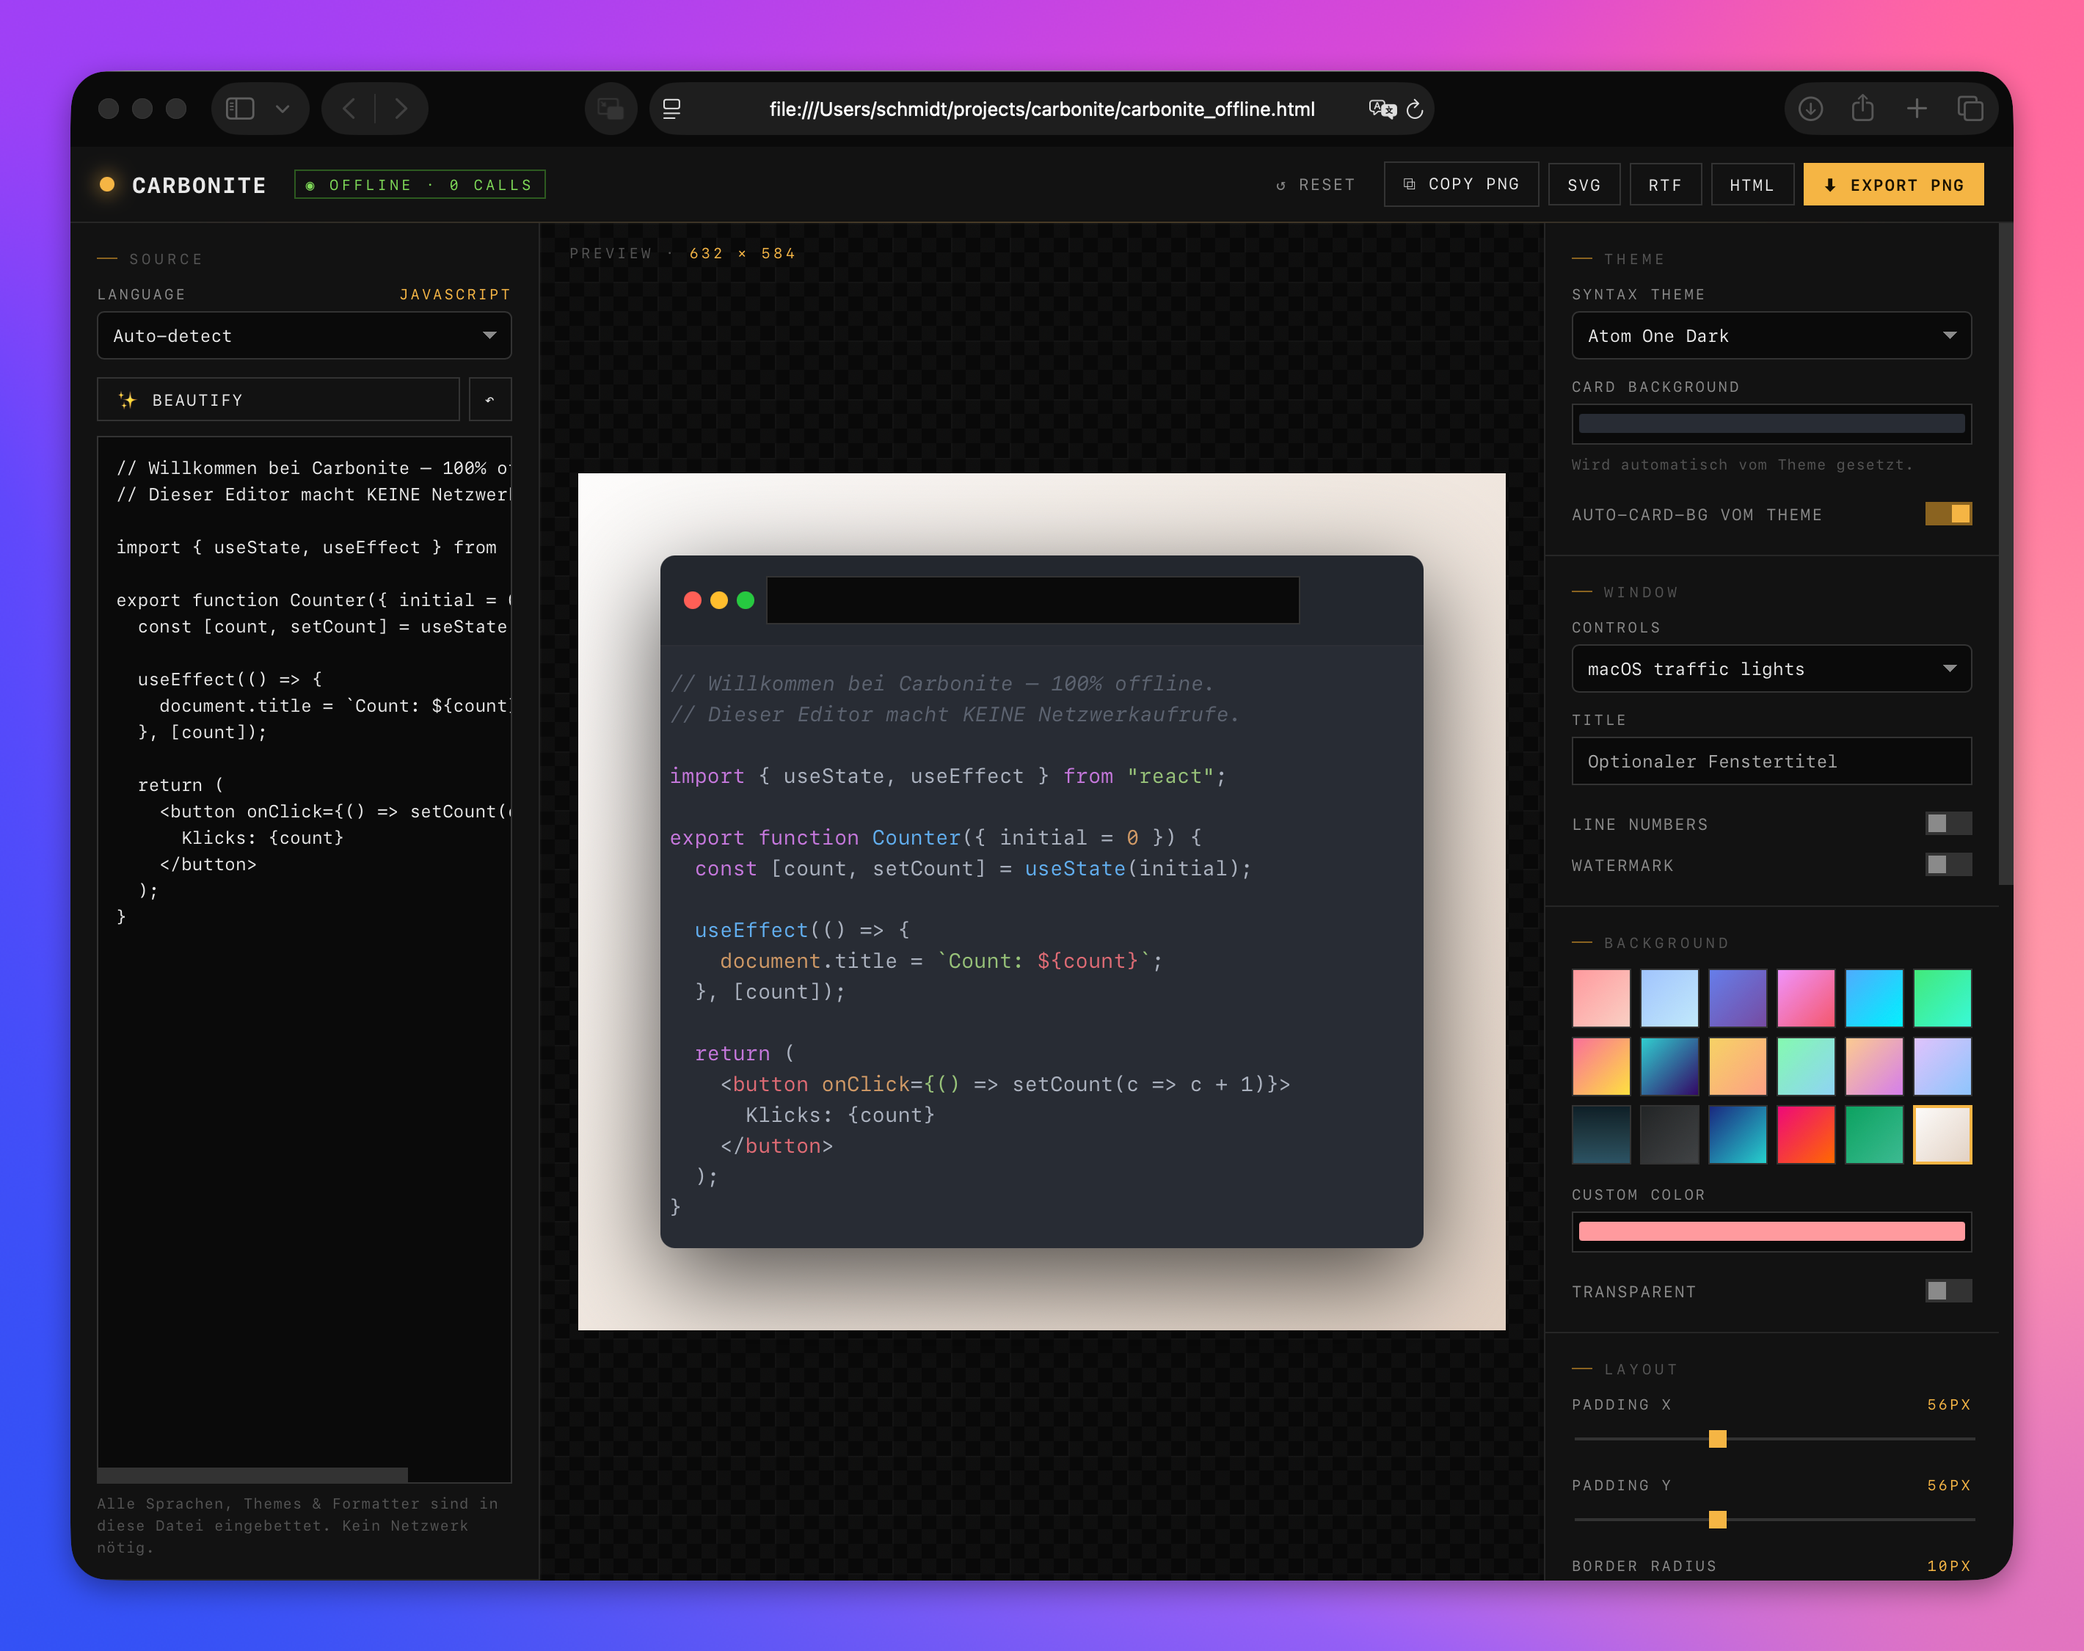
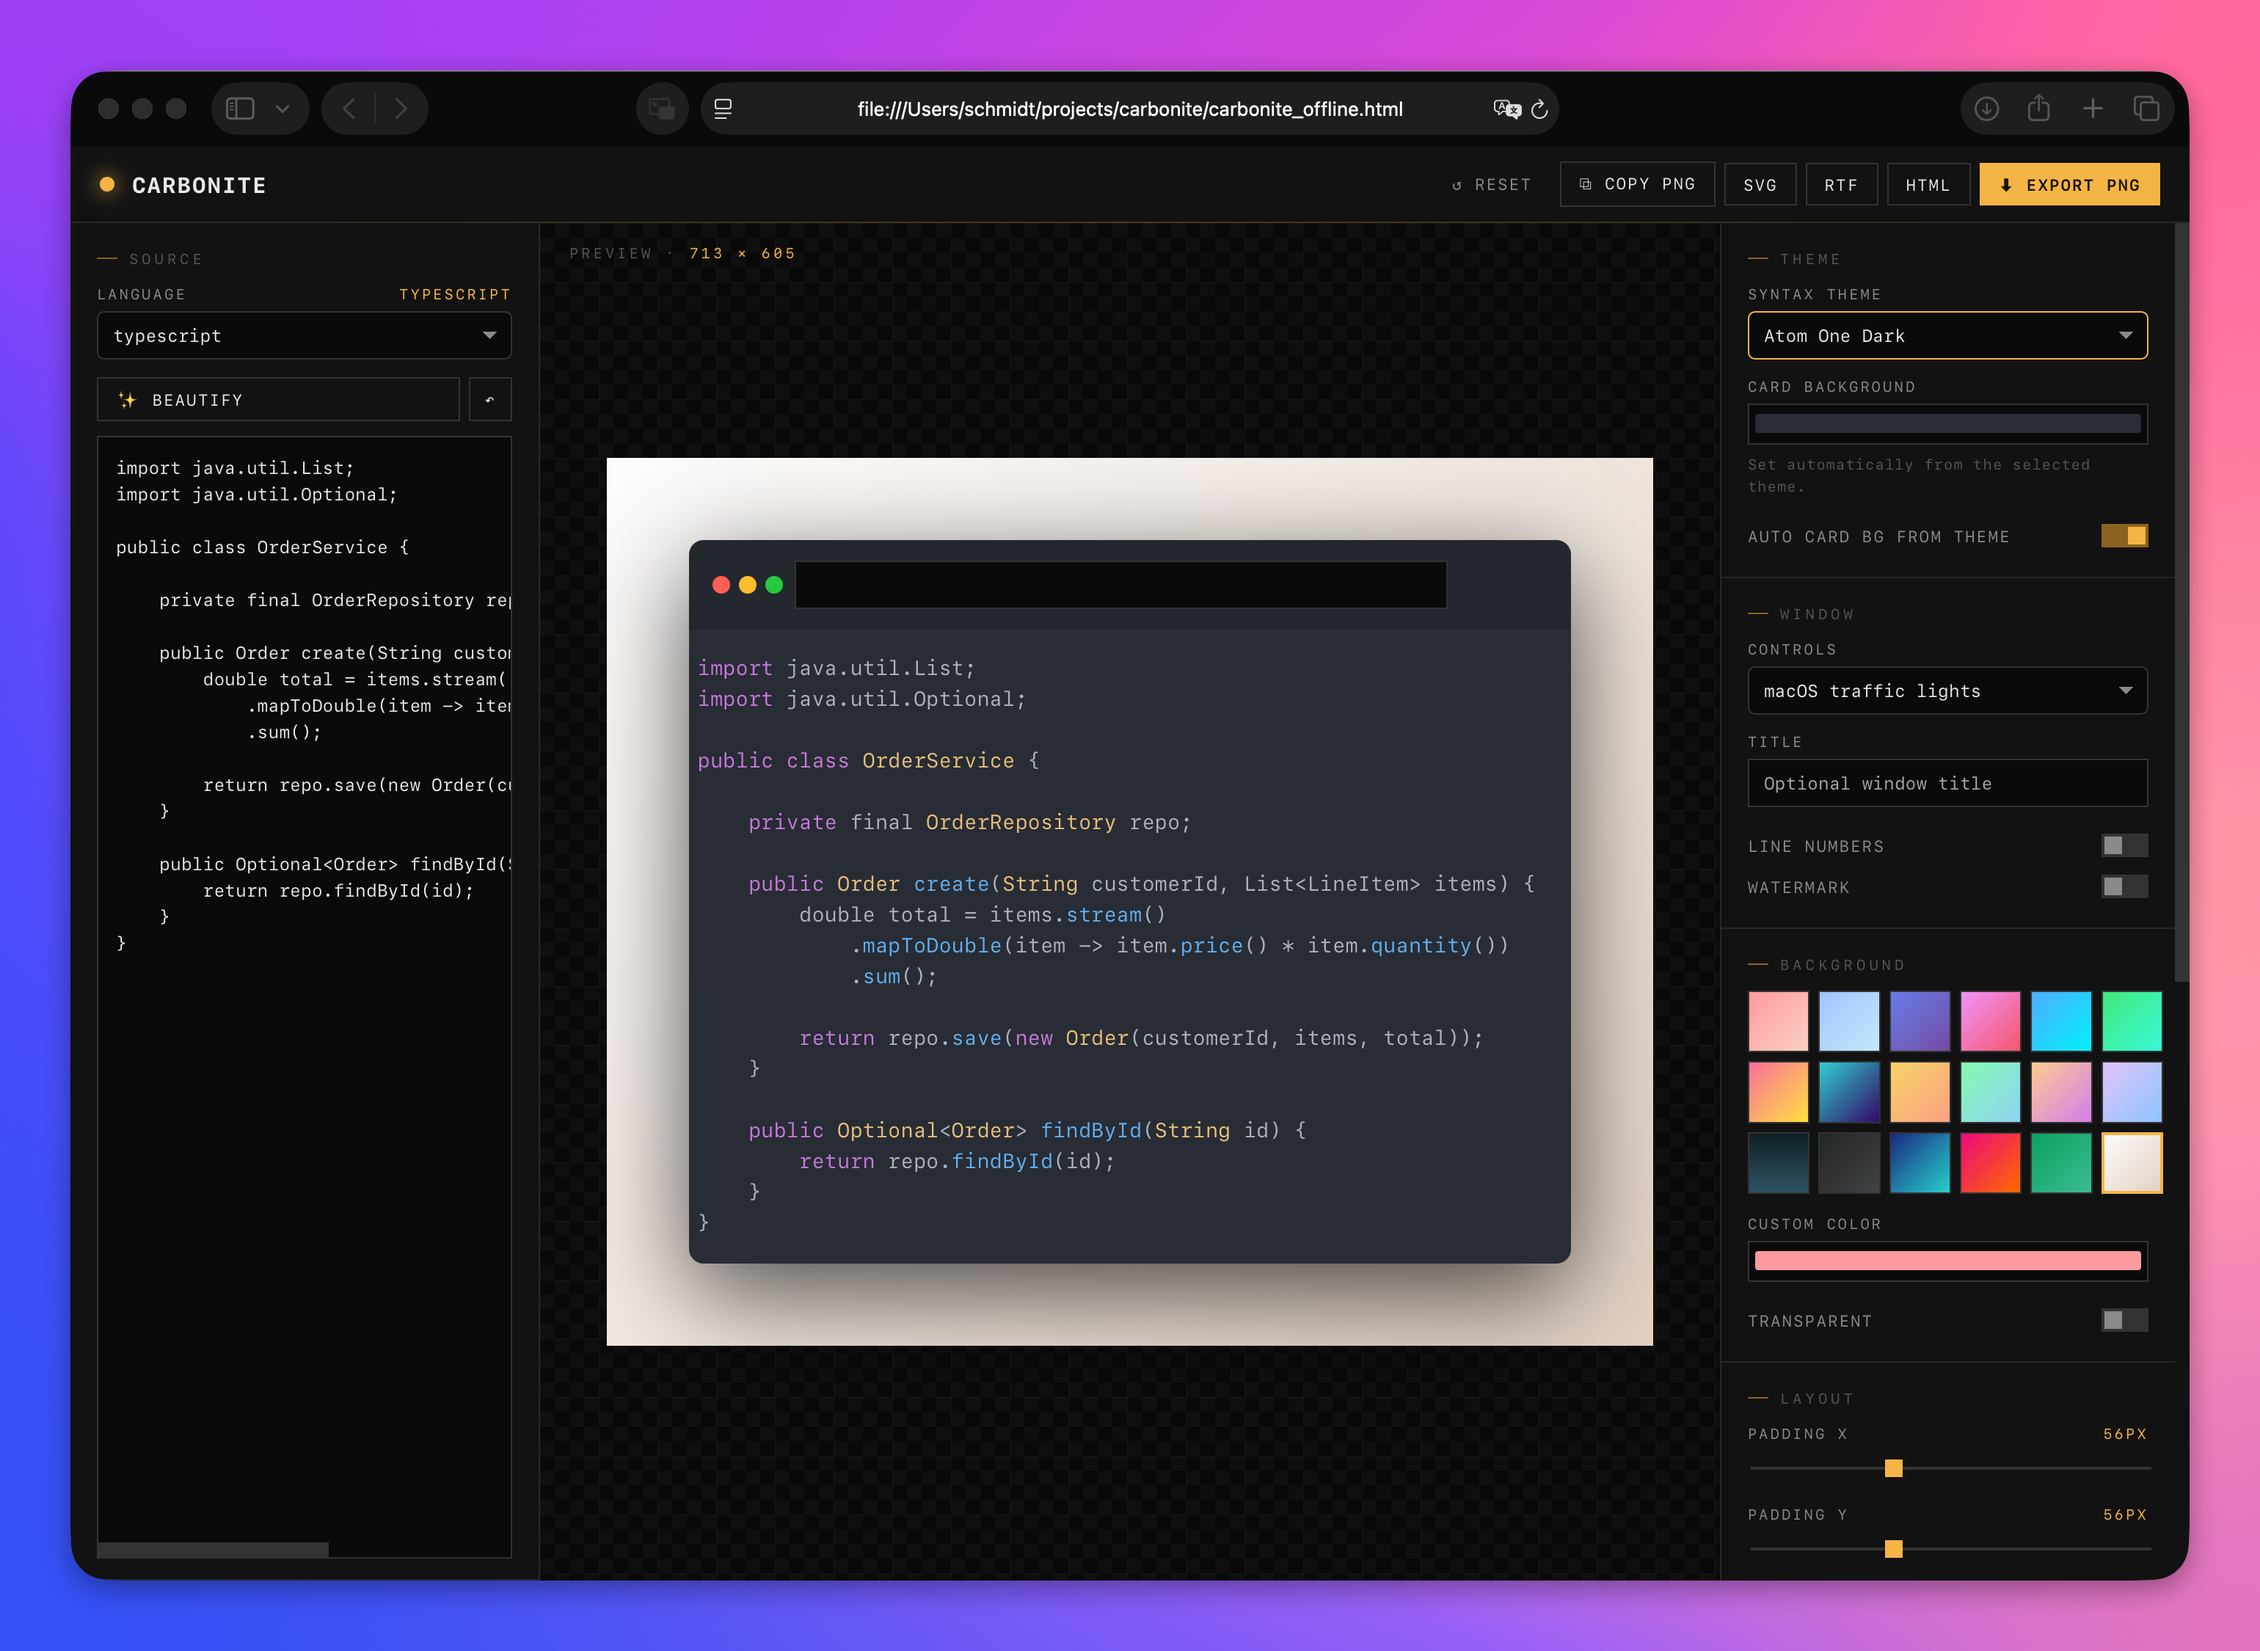
Fix Beautify: restore generics and lambda arrows for C-family languages
js-beautify's JS mode adds spaces around < > (treating them as comparison
operators) and breaks -> into "- >". Add fmt_jsb_cfamily() which post-processes
the output with regex to restore Type<T> and x -> y patterns. Route Java, C++,
C#, Kotlin, Swift, TypeScript and related languages to this new formatter.
Also shorten the default Java sample and translate remaining German UI strings.

diff --git a/carbonite_offline.html b/carbonite_offline.html
@@ -1789,23 +1789,23 @@ const THEMES_CSS = {"atom-one-dark": {"name": "Atom One Dark", "css": "pre code.
 <script>
 "use strict";
 
-const DEFAULT_CODE = `// Willkommen bei Carbonite – 100% offline.
-// Dieser Editor macht KEINE Netzwerkaufrufe.
+const DEFAULT_CODE = `import java.util.List;
+import java.util.Optional;
 
-import { useState, useEffect } from "react";
+public class OrderService {
 
-export function Counter({ initial = 0 }) {
-  const [count, setCount] = useState(initial);
+    private final OrderRepository repo;
 
-  useEffect(() => {
-    document.title = \`Count: \${count}\`;
-  }, [count]);
+    public Order create(String customerId, List<LineItem> items) {
+        double total = items.stream()
+            .mapToDouble(item -> item.price() * item.quantity())
+            .sum();
+        return repo.save(new Order(customerId, items, total));
+    }
 
-  return (
-    <button onClick={() => setCount(c => c + 1)}>
-      Klicks: {count}
-    </button>
-  );
+    public Optional<Order> findById(String id) {
+        return repo.findById(id);
+    }
 }`;
 
 const el = (id) => document.getElementById(id);
@@ -2398,10 +2398,7 @@ const FORMAT_SUPPORT = {
   // High-quality formatters
   javascript:   "jsb-js",
   js:           "jsb-js",
-  typescript:   "jsb-js",   // js-beautify handles most TS OK
-  ts:           "jsb-js",
   jsx:          "jsb-js",
-  tsx:          "jsb-js",
   json:         "json",
   json5:        "json",
   html:         "jsb-html",
@@ -2413,20 +2410,23 @@ const FORMAT_SUPPORT = {
   less:         "jsb-css",
   sass:         "jsb-css",
   sql:          "sql",
-  // C-family: js-beautify's JS mode handles braces, strings & comments well
-  java:         "jsb-js",
-  c:            "jsb-js",
-  cpp:          "jsb-js",
-  csharp:       "jsb-js",
-  kotlin:       "jsb-js",
-  swift:        "jsb-js",
-  rust:         "jsb-js",
-  go:           "jsb-js",
-  dart:         "jsb-js",
-  php:          "jsb-js",
-  objectivec:   "jsb-js",
-  scala:        "jsb-js",
-  groovy:       "jsb-js",
+  // C-family: js-beautify JS mode + generic/arrow postprocessing
+  java:         "jsb-cfamily",
+  c:            "jsb-cfamily",
+  cpp:          "jsb-cfamily",
+  csharp:       "jsb-cfamily",
+  kotlin:       "jsb-cfamily",
+  swift:        "jsb-cfamily",
+  rust:         "jsb-cfamily",
+  go:           "jsb-cfamily",
+  dart:         "jsb-cfamily",
+  php:          "jsb-cfamily",
+  objectivec:   "jsb-cfamily",
+  scala:        "jsb-cfamily",
+  groovy:       "jsb-cfamily",
+  typescript:   "jsb-cfamily",
+  ts:           "jsb-cfamily",
+  tsx:          "jsb-cfamily",
   // Whitespace-sensitive: never reformat, but clean trailing whitespace
   python:       "safe-ws",
   yaml:         "safe-ws",
@@ -2571,6 +2571,18 @@ function fmt_jsb_js(src) {
   });
 }
 
+function fmt_jsb_cfamily(src) {
+  let out = fmt_jsb_js(src);
+  // Restore lambda/pointer arrows broken into "- >" by js-beautify
+  out = out.replace(/(\S) - > /g, '$1 -> ');
+  // Restore generic type brackets broken into "Type < T >" by js-beautify.
+  // Run multiple passes to handle nesting like Map<String, List<Integer>>.
+  for (let i = 0; i < 4; i++) {
+    out = out.replace(/(\w) < ([\w][\w\[\] ,.<>?*&]*?) >/g, '$1<$2>');
+  }
+  return out;
+}
+
 function fmt_jsb_html(src) {
   const ind = getIndent();
   return window.beautifier.html(src, {
@@ -2619,7 +2631,8 @@ const FORMATTERS = {
   "json":       fmt_json,
   "xml":        fmt_xml,
   "sql":        fmt_sql,
-  "jsb-js":     fmt_jsb_js,
+  "jsb-js":       fmt_jsb_js,
+  "jsb-cfamily":  fmt_jsb_cfamily,
   "jsb-html":   fmt_jsb_html,
   "jsb-css":    fmt_jsb_css,
   "safe-ws":    fmt_safe_ws,
@@ -2653,7 +2666,7 @@ function doBeautify() {
     return;
   }
   if (after === before) {
-    flash("Bereits sauber formatiert");
+    flash("Already formatted");
     return;
   }
   _beautifyUndo = before;
@@ -2661,7 +2674,8 @@ function doBeautify() {
   render();
   const labels = {
     "json": "JSON", "xml": "XML", "sql": "SQL",
-    "jsb-js": "js-beautify", "jsb-html": "js-beautify (html)",
+    "jsb-js": "js-beautify", "jsb-cfamily": "js-beautify",
+    "jsb-html": "js-beautify (html)",
     "jsb-css": "js-beautify (css)", "safe-ws": "Whitespace-Clean",
     "noop": "unchanged"
   };
@@ -2670,12 +2684,12 @@ function doBeautify() {
 
 el("btnBeautify").addEventListener("click", doBeautify);
 el("btnBeautifyUndo").addEventListener("click", () => {
-  if (_beautifyUndo == null) { flash("Nichts zum Widerrufen"); return; }
+  if (_beautifyUndo == null) { flash("Nothing to undo"); return; }
   const cur = codeInput.value;
   codeInput.value = _beautifyUndo;
-  _beautifyUndo = cur; // allow re-do
+  _beautifyUndo = cur;
   render();
-  flash("↶ Widerrufen");
+  flash("↶ Undone");
 });
 
 /* ---------- Persistence (localStorage – purely local, no network) ----------
@@ -2804,6 +2818,7 @@ function wireAutoSave() {
 
 /* ---------- Init ---------- */
 codeInput.value = DEFAULT_CODE;
+el("language").value = "java";
 applyTheme("atom-one-dark");
 applyType();
 applyShadow();
